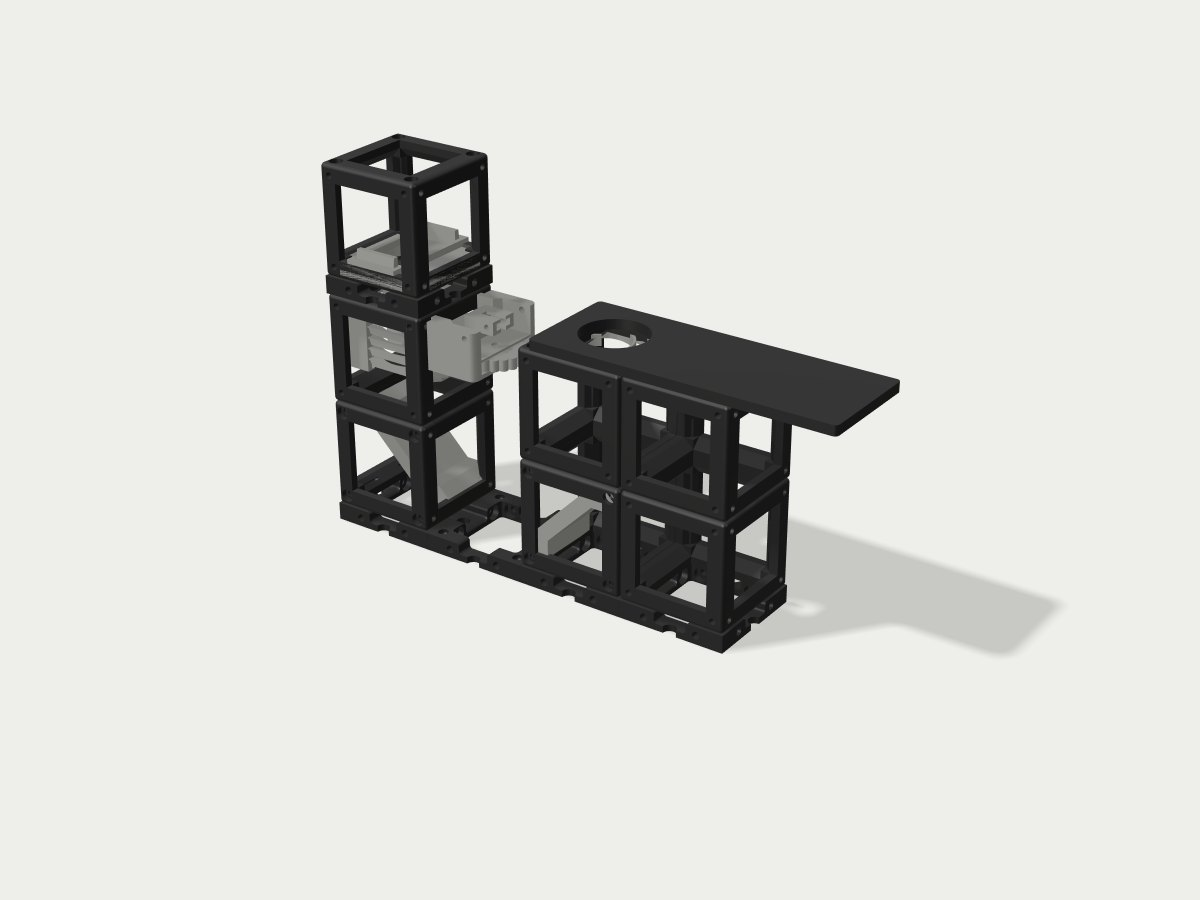
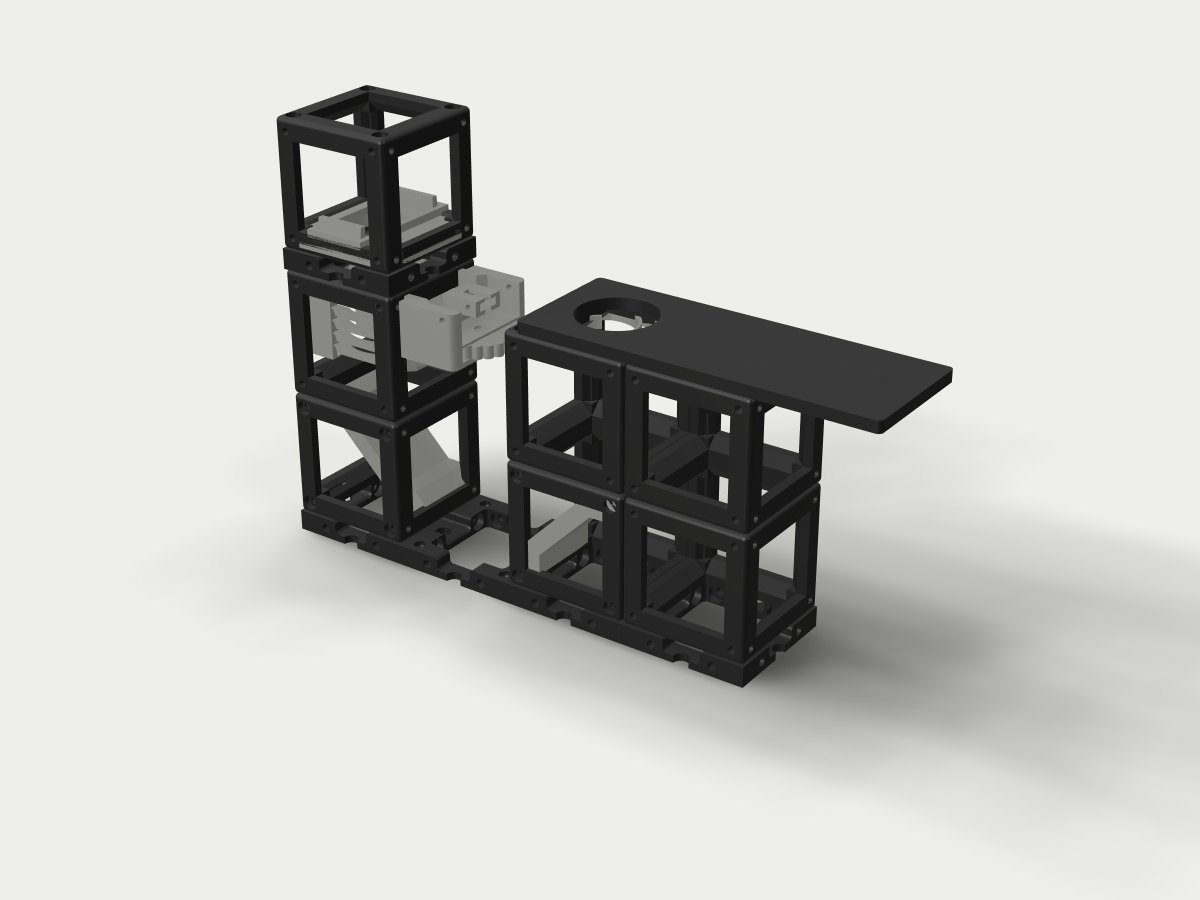
UC2: re-render with the restored catalogue look (#70); fasteners line by explicit flag
- img/uc2_*.jpg re-rendered with the current render.html (dist=5.0)
- the generic fasteners line is skipped only for entries with fastenersListed
  (Sesame's parts list starts with screws too and must keep its line)
- uc2 stays the last catalogue entry so the numbering of other kits is unchanged

Claude-Session: https://claude.ai/code/session_01BZLxn37hPV3nyR5Dfttybs

Changed region(s): [[0.2158, 0.0933, 1.0, 0.8711]]

diff --git a/tools/lab-cad/uc2_glb.py b/tools/lab-cad/uc2_glb.py
@@ -3,7 +3,7 @@
 Source: https://github.com/openUC2/UC2-GIT @ afc9de36f27d5a387e6b9ef1d85ae0cf33b4d3d6 (hardware CERN-OHL-1.2, License.md).
 Usage:  python3 -I tools/lab-cad/uc2_glb.py <UC2-GIT>/TheBOX/SimpleBOX/BUILD_ME/STL uc2-raw.glb
         npx -y gltfpack@0.25.0 -i uc2-raw.glb -o models/uc2.glb -kn -km -cc -vp 14 -vn 8
-Renders: node tools/render-kit/render.mjs uc2 dist=5.8
+Renders: node tools/render-kit/render.mjs uc2 dist=5.0
 Licence of this derived model: CERN-OHL-1.2 (same as the source), see models/NOTICE.txt.
 Parts: the author's STL files from openUC2/UC2-GIT TheBOX/SimpleBOX/BUILD_ME/STL (UC2 v2 cubes), placed on the
 50 mm UC2 grid per APPLICATIONS/APP_SIMPLE-Smartphone_Microscope/mechanical/Readme.md ("Building the Smartphone
